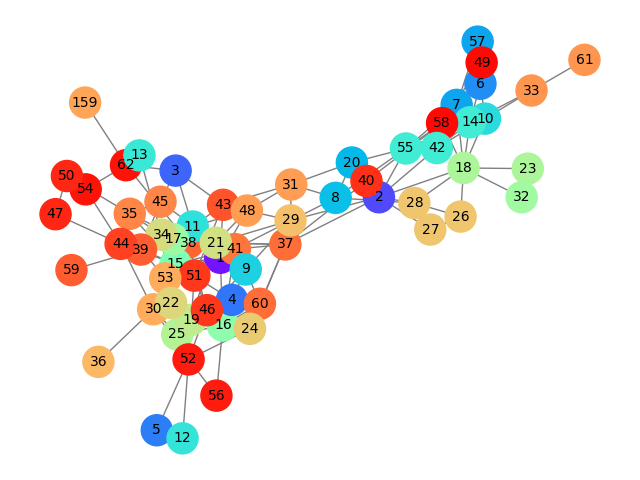
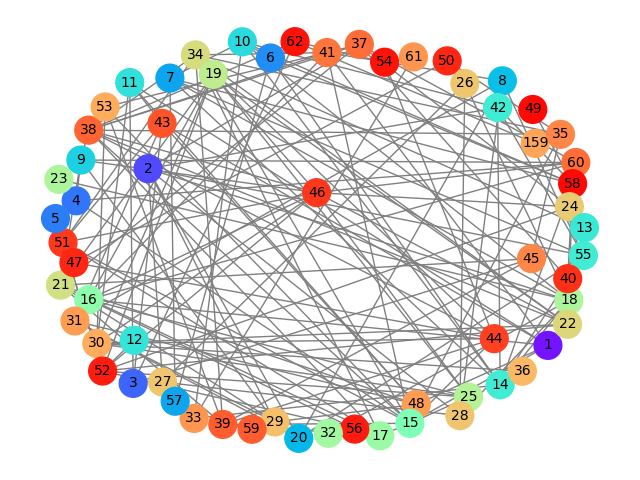
feat: Graph more visible and comments in the code

diff --git a/projeto.py b/projeto.py
@@ -3,27 +3,31 @@ import matplotlib.pyplot as plt
 
 
 class Graph:
+    
+    #inicia dicionario para armazenar vertices e suas adjacencias
     def __init__(self):
         self.nodes = {}
 
 
+    #adiciona vertice ao grafo, caso ele ainda nao exista
     def addVertex(self, vertex):
         if vertex not in self.nodes:
             self.nodes[vertex] = []
 
 
 
+    #adiciona "arestas" entre vertice e adjacentes
     def addAdjacents(self, vertex, adjacents):
         self.addVertex(vertex)
         for adjacent in adjacents:
             if adjacent != vertex and adjacent not in self.nodes[vertex]:
                 self.nodes[vertex].append(adjacent)
                 self.addVertex(adjacent)
-                self.nodes[adjacent].append(vertex)
+                self.nodes[adjacent].append(vertex) #relacao bidirecional
 
 
 
-
+    #carrega arquivo e formata para os tipos certos
     def loadFile(self, file):
         with open(file, "r") as dolphins:
             for line in dolphins:
@@ -35,7 +39,7 @@ class Graph:
                 self.addAdjacents(vertex, adjacents)
 
 
-
+    #imprime o grau de cada vertice
     def printVertexDegree(self):
         print("Vertex's Degree")
         for vertex, adjacents in self.nodes.items():
@@ -44,55 +48,67 @@ class Graph:
 
 
 
-
+    #calcula o coeficiente de agrupamento para cada vertice
     def calculateVertexClustering(self):
         print("\nVertex Clustering Coefficient:")
         clustering = {}
         for vertex, adjacents in self.nodes.items():
+            #se um vertice tiver menos que 2 adjacentes, o coeficiente e 0
             if len(adjacents) < 2:
                 clustering[vertex] = 0.0
                 continue
+            #conexoes possiveis entre adjacentes
             possibleConnections = len(adjacents) * (len(adjacents) - 1) / 2
+            #conexoes reais entre adjacentes
             currentConnections = sum(
                 1 for u in adjacents for v in adjacents if u != v and v in self.nodes[u]
-            ) /2
+            ) /2 #divide para evitar duplicacao
+
+            #calcula o coeficiente de agrupamento
             clustering[vertex] = currentConnections / possibleConnections
             print(f"Vertex {vertex}: {clustering[vertex]:.3f}")
         return clustering
     
 
 
-
+    #calcula o coeficiente de agrupamento medio do grafo
     def averageClustering(self):
-        clustering = self.calculateVertexClustering()
-        avg_clustering = sum(clustering.values()) / len(clustering)
+        clustering = self.calculateVertexClustering() #coeficiente de cada vertice
+        avg_clustering = sum(clustering.values()) / len(clustering) #media dos valores
         print(f"\nGraph's average clustering coefficient: {avg_clustering:.3f}")
         return avg_clustering
 
 
+    #algoritmo Bron-Kerbosch para encontrar cliques maximos
     def bronKerbosch(self, R, P, X, cliques):
         if not P and not X:
+            #se nao tiver mais vertices para explorar, adiciona o clique formado
             cliques.append(R)
             return
-        for vertex in list(P):
-            adjacents = set(self.nodes[vertex])
+        for vertex in list(P): #caminha pelos vertices em P
+            adjacents = set(self.nodes[vertex]) #vertices adjacentes ao atual
+
+            #recursao com o vertice adicionado ao clique atual
             self.bronKerbosch(
                 R.union({vertex}),
                 P.intersection(adjacents),
                 X.intersection(adjacents),
                 cliques,
             )
+
+            #apos explorar move de P para X
             P.remove(vertex)
             X.add(vertex)
 
 
 
 
+    #encontra e imprime os cliques maximos do grafo
     def maximalCliques(self):
         print("\nMaximal Cliques:")
         cliques = []
-        P = set(self.nodes.keys())
-        self.bronKerbosch(set(), P, set(), cliques)
+        P = set(self.nodes.keys()) #vertices do grafo
+        self.bronKerbosch(set(), P, set(), cliques) #inicia o algoritmo
         for clique in cliques:
             print(f"Clique with {len(clique)} vertex: {sorted(clique)}")
         return cliques
@@ -100,12 +116,15 @@ class Graph:
 
 
 
-
+    #vizualizacao do grafo
     def visualizeGraph(self, cliques):
-        print("\Plotting the Graph...")
+        print("\nPlotting the Graph...")
         print("Attention! if you are in a virtual environment the command plt.show will not work",
               "the function will save the graph.png on the file directory, just open it")
-        G = nx.Graph()
+
+        G = nx.Graph() #cria grafo usando networkx
+        
+        #adiciona as arestas ao grafo
         for vertex, adjacentes in self.nodes.items():
             for adjacente in adjacentes:
                 G.add_edge(vertex, adjacente)
@@ -115,19 +134,24 @@ class Graph:
         color_map = {}
         for i, clique in enumerate(cliques):
             for node in clique:
-                color_map[node] = colors[i]
+                color_map[node] = colors[i] #associa uma cor a cada clique
 
+        #define as cores / preto como padrao para os que estao fora dos cliques
         node_colors = [color_map.get(node, (0, 0, 0, 1)) for node in G.nodes]
-        pos = nx.spring_layout(G, seed=42)  
+        pos = nx.spring_layout(G, seed=42, k=3)  
+
+        #desenha o grafo
         nx.draw(
             G,
             pos,
             with_labels=True,
             node_color=node_colors,
             edge_color="gray",
-            node_size=500,
+            node_size=400,
             font_size=10,
         )
+
+        #salva e exibe o grafo
         plt.savefig("DolphinGraph.png")
         plt.show()
 
@@ -135,6 +159,6 @@ class Graph:
 g = Graph()
 g.loadFile("soc-dolphins.mtx")  
 g.printVertexDegree()
-g.averageClustering()
 cliques = g.maximalCliques()
+g.averageClustering()
 g.visualizeGraph(cliques)
